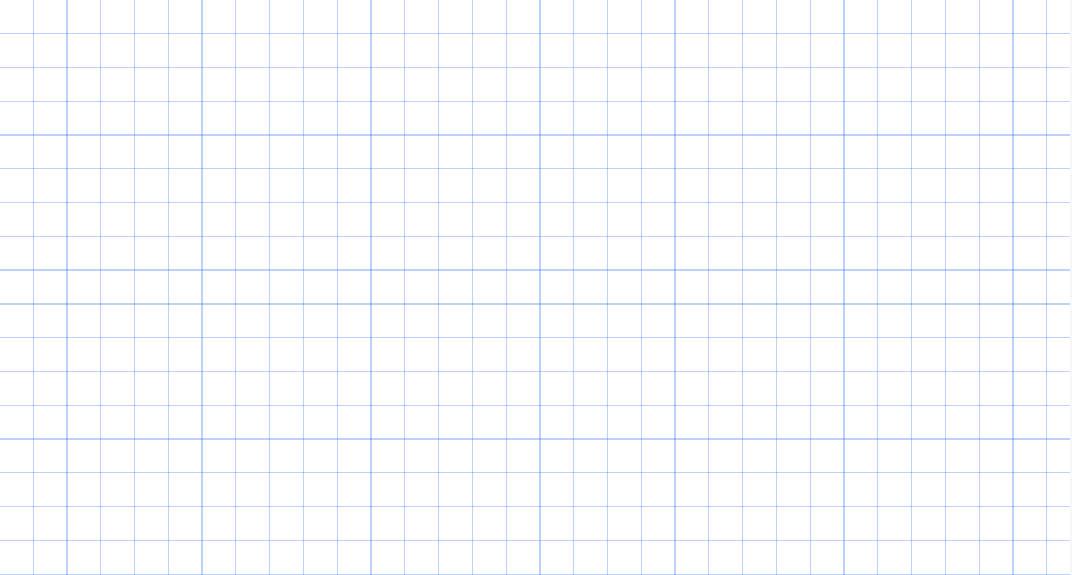
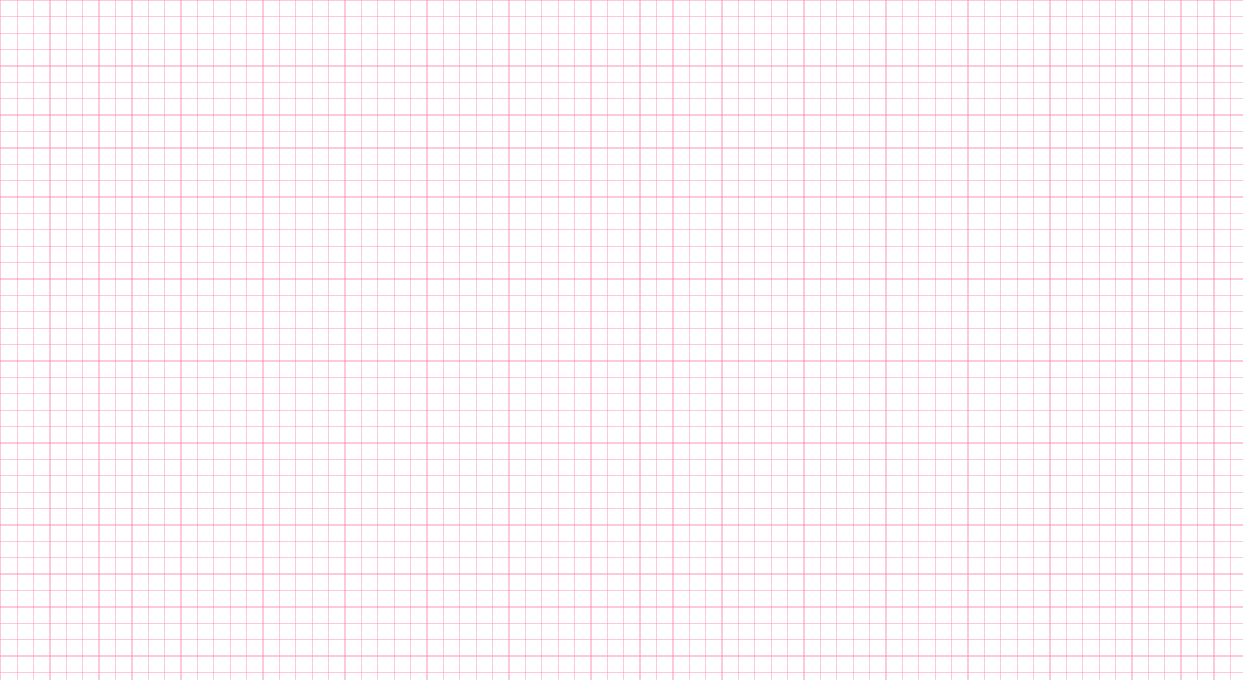
mere design

Changed region(s): [[0.0, 0.0, 1.0, 1.0]]

diff --git a/src/style/hero.module.css b/src/style/hero.module.css
@@ -3,6 +3,7 @@
 .hero_grid {
   display: grid;
   grid-template-columns: 1fr;
+  background-image: url("../imgs/dotted-pattern.png");
 }
 .hero_grid:nth-child(2) {
   justify-self: start; /* Aligns item to the left within its grid cell */
@@ -38,11 +39,30 @@
   justify-items: center;
   align-items: center;
   padding-bottom: 3rem;
-  margin-top: 3rem;
+  /* margin-top: 3rem; */
   margin-bottom: 5rem;
 }
 .hero_img {
   width: 10rem;
+  /* border-radius: 10px; */
+  position: relative;
+  z-index: 1;
+  box-shadow: 10px 5px 1px #FB7DA8;
+  border: 2.5px solid black;
+}
+
+.hero_img::before{
+  content: "";
+  background-image: url("../imgs/clip1.png");
+  display: block;
+  width: 10rem;
+  height: 10rem;
+  background-color: rgba(0, 0, 0, 0.5);
+  position: absolute;
+  top: 10%;
+  left: 50%;
+  border-radius: 10px;
+  z-index: 2;
 }
 
 @media (min-width: 500px) {
@@ -62,7 +82,7 @@
     display: grid;
     grid-template-columns: 1fr 1fr;
 
-    margin-top: 1rem;
+    /* margin-top: 1rem; */
   }
 
   .hero_img {
@@ -82,7 +102,7 @@
     gap: 2rem;
   }
   .hero_img {
-    width: 25rem;
+    width: 20rem;
   }
 }
 @media (min-width: 1120px) {

diff --git a/src/components/experience/Experience.tsx b/src/components/experience/Experience.tsx
@@ -1,5 +1,5 @@
 import e from "../../style/experince.module.css";
-import SuitcaseIcon from "../../assets/Icons/suitcase-icon.svg";
+import StarIcon from "../../imgs/star-icon.svg";
 
 interface ExperienceProps {
   Experience: string;
@@ -11,7 +11,7 @@ function Experience({ Experience, ExperinceYear, WorkPlace }: ExperienceProps) {
   return (
     <div className={e.flexrow}>
       <div className={e.flexrow}>
-        <img src={SuitcaseIcon} alt="suitcase icon" />
+        <img src={StarIcon} alt="suitcase icon" />
         <div className={e.experince_item}>
           <h1 className="h3">{Experience}</h1>
           <p className={e.workplace}>{WorkPlace}</p>

diff --git a/src/style/experince.module.css b/src/style/experince.module.css
@@ -22,7 +22,7 @@ img {
   padding-bottom: 3rem;
   padding-top: 3rem;
   background-color: var(--tertiary);
-  background-image: url("../imgs/peach-checkered.pattern.png");
+  background-image: url("../imgs/checkered-pattern.png");
 }
 h1 {
   font-size: 0.5rem;

diff --git a/src/components/Hero.tsx b/src/components/Hero.tsx
@@ -1,4 +1,4 @@
-import JuliePhoto from "../imgs/cv-img-shape1.png";
+import JuliePhoto from "../imgs/cv-img-julie.jpg";
 import s from "../style/hero.module.css";
 import { MdEmail } from "react-icons/md";
 import { FaLinkedin } from "react-icons/fa";

diff --git a/src/style/grade.css b/src/style/grade.css
@@ -1,3 +1,6 @@
+body{
+  background-image: url(../imgs/dotted-pattern.png);
+}
 .grade-image-container {
   background-image: url(../assets/Icons/doodle-ring.svg);
   background-size: cover;

diff --git a/src/components/skill/Skill.tsx b/src/components/skill/Skill.tsx
@@ -36,3 +36,5 @@ function Skill({ skillName, skillText }: SkillProps) {
 }
 
 export default Skill;
+
+
